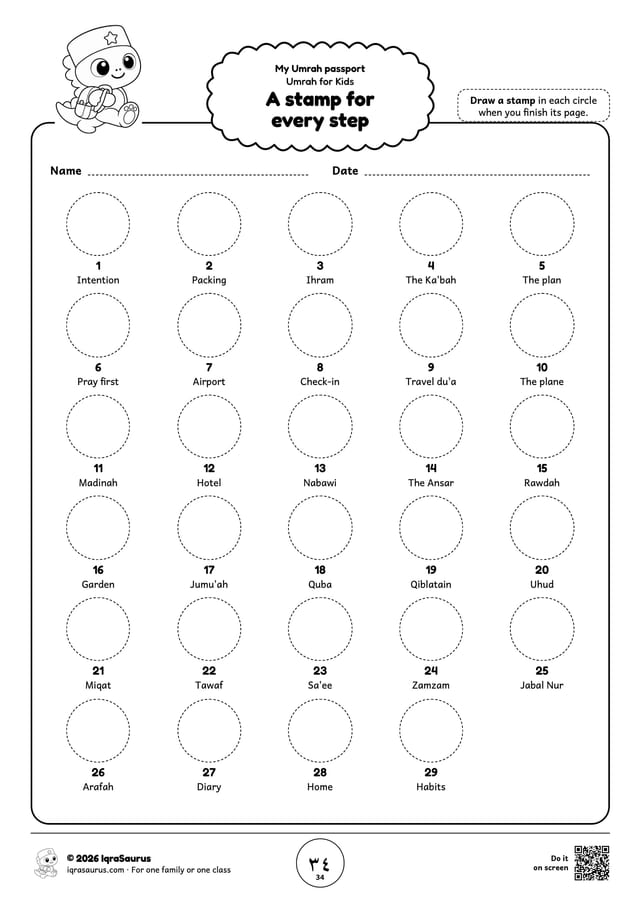
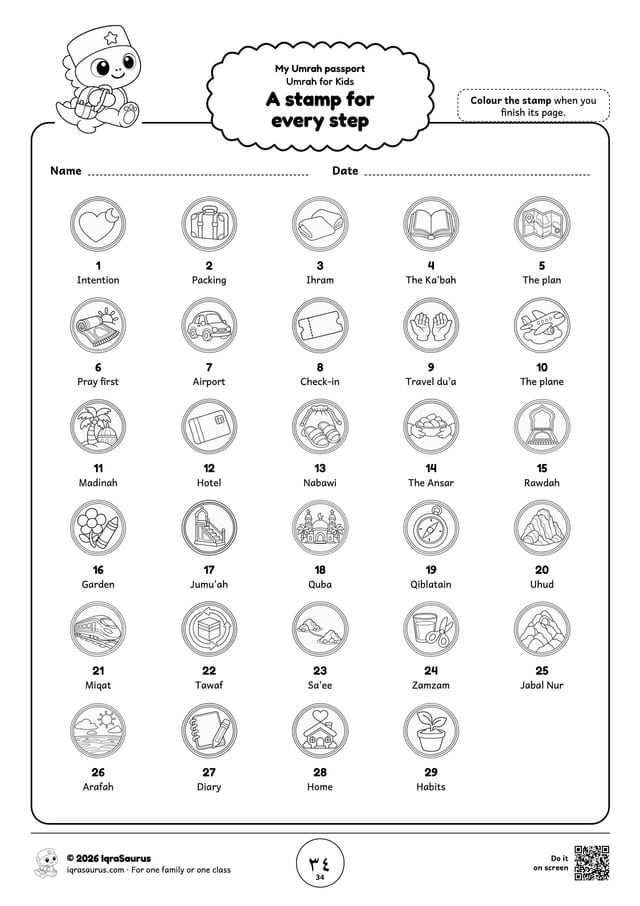
umrahforkids: Umrah for Kids is live; the passport picture now has the drawn stamps
The tool is 'live' in the tool list (umrah.iqrasaurus.com, owner 2026-10-29: the asatizah cleared
all 29 steps), so its tiles link out and iqrasaurus.com/umrah forwards to it (gen:vercel). The
passport picture is synced again from the tools repo.

diff --git a/packages/config/src/spokes.ts b/packages/config/src/spokes.ts
@@ -238,9 +238,9 @@ export const tools: ToolConfig[] = [
   { slug: 'investigator', name: 'Quran Investigator', line: 'A booklet for every surah', ms: { line: 'Buku aktiviti untuk setiap surah' }, path: '/investigator', host: `investigator.${HUB_HOST}`, status: 'live', mascot: 'mascot-magnifier.png', pose: 'magnifying-glass', colour: 'investigate' },
   { slug: 'museum', name: 'Museum', line: '[[CONTENT NEEDED: one line]]', path: '/museum', status: 'coming-soon', mascot: 'mascot-magnifier.png', pose: 'treasure-chest', colour: 'investigate' },
   // Umrah for Kids (owner, 2026-10-28): get ready for Umrah a step a day, the at-home side of the
-  // Umrah for Kids programme (apps/umrah in the tools repo, docs/specs/umrah.md). 'coming-soon' until
-  // the asatizah have checked its steps and umrah.iqrasaurus.com is set up; then 'live'.
-  { slug: 'umrah', name: 'Umrah for Kids', line: 'Get ready for Umrah, step by step', ms: { line: 'Bersedia untuk umrah, langkah demi langkah' }, path: '/umrah', host: `umrah.${HUB_HOST}`, status: 'coming-soon', mascot: 'mascot-walking.png', pose: 'backpack-ready', colour: 'integrate' },
+  // Umrah for Kids programme (apps/umrah in the tools repo, docs/specs/umrah.md). Public since 2026-10-29
+  // (owner: the asatizah cleared all 29 steps).
+  { slug: 'umrah', name: 'Umrah for Kids', line: 'Get ready for Umrah, step by step', ms: { line: 'Bersedia untuk umrah, langkah demi langkah' }, path: '/umrah', host: `umrah.${HUB_HOST}`, status: 'live', mascot: 'mascot-walking.png', pose: 'backpack-ready', colour: 'integrate' },
   // Dino became Duas (owner, 2026-10-11): the duas we make on a regular basis. Public since 2026-10-19 (owner).
   { slug: 'duas', name: 'Duas', line: 'A dua for every moment', ms: { line: 'Doa untuk setiap ketika' }, path: '/duas', host: `duas.${HUB_HOST}`, status: 'live', mascot: 'mascot-walking.png', pose: 'making-dua', colour: 'integrate' },
   // The shop's print-ready packs, as a tile in the Tools menu (owner, 2026-10-21; not a header item, rule 8).

diff --git a/apps/umrahforkids/content.ms.ts b/apps/umrahforkids/content.ms.ts
@@ -23,7 +23,7 @@ export const contentMs: Overlay<SpokeContent> = {
     photos: [
       { src: '/photos/ufk-model-tawaf.webp', alt: 'Dino IqraSaurus berjalan mengelilingi model Kaabah di atas tikar di rumah', width: 1600, height: 1600 },
       { src: '/photos/ufk-sample-packing.webp', alt: 'Halaman hitam putih untuk diwarnakan: dino mengemas beg, dengan senarai barang untuk ditanda dan ruang untuk melukis', width: 1600, height: 2264 },
-      { src: '/photos/ufk-passport.webp', alt: 'Pasport Umrah Saya: 29 bulatan untuk melukis setem, satu bagi setiap langkah perjalanan', width: 1600, height: 2264 },
+      { src: '/photos/ufk-passport.webp', alt: 'Pasport Umrah Saya: 29 setem bulat untuk diwarnakan, satu bagi setiap langkah perjalanan', width: 1600, height: 2264 },
     ],
   },
   session: {

diff --git a/apps/umrahforkids/content.ts b/apps/umrahforkids/content.ts
@@ -35,7 +35,7 @@ export const content: SpokeContent = {
     photos: [
       { src: '/photos/ufk-model-tawaf.webp', alt: 'The IqraSaurus dino walking round a model of the Ka’bah on a mat at home', width: 1600, height: 1600 },
       { src: '/photos/ufk-sample-packing.webp', alt: 'A black-and-white page to colour: the dino packs a bag, with a packing list to tick and a corner to draw in', width: 1600, height: 2264 },
-      { src: '/photos/ufk-passport.webp', alt: 'My Umrah passport: 29 circles to draw a stamp in, one for each step of the journey', width: 1600, height: 2264 },
+      { src: '/photos/ufk-passport.webp', alt: 'My Umrah passport: 29 round stamps to colour, one for each step of the journey', width: 1600, height: 2264 },
     ],
   },
 
